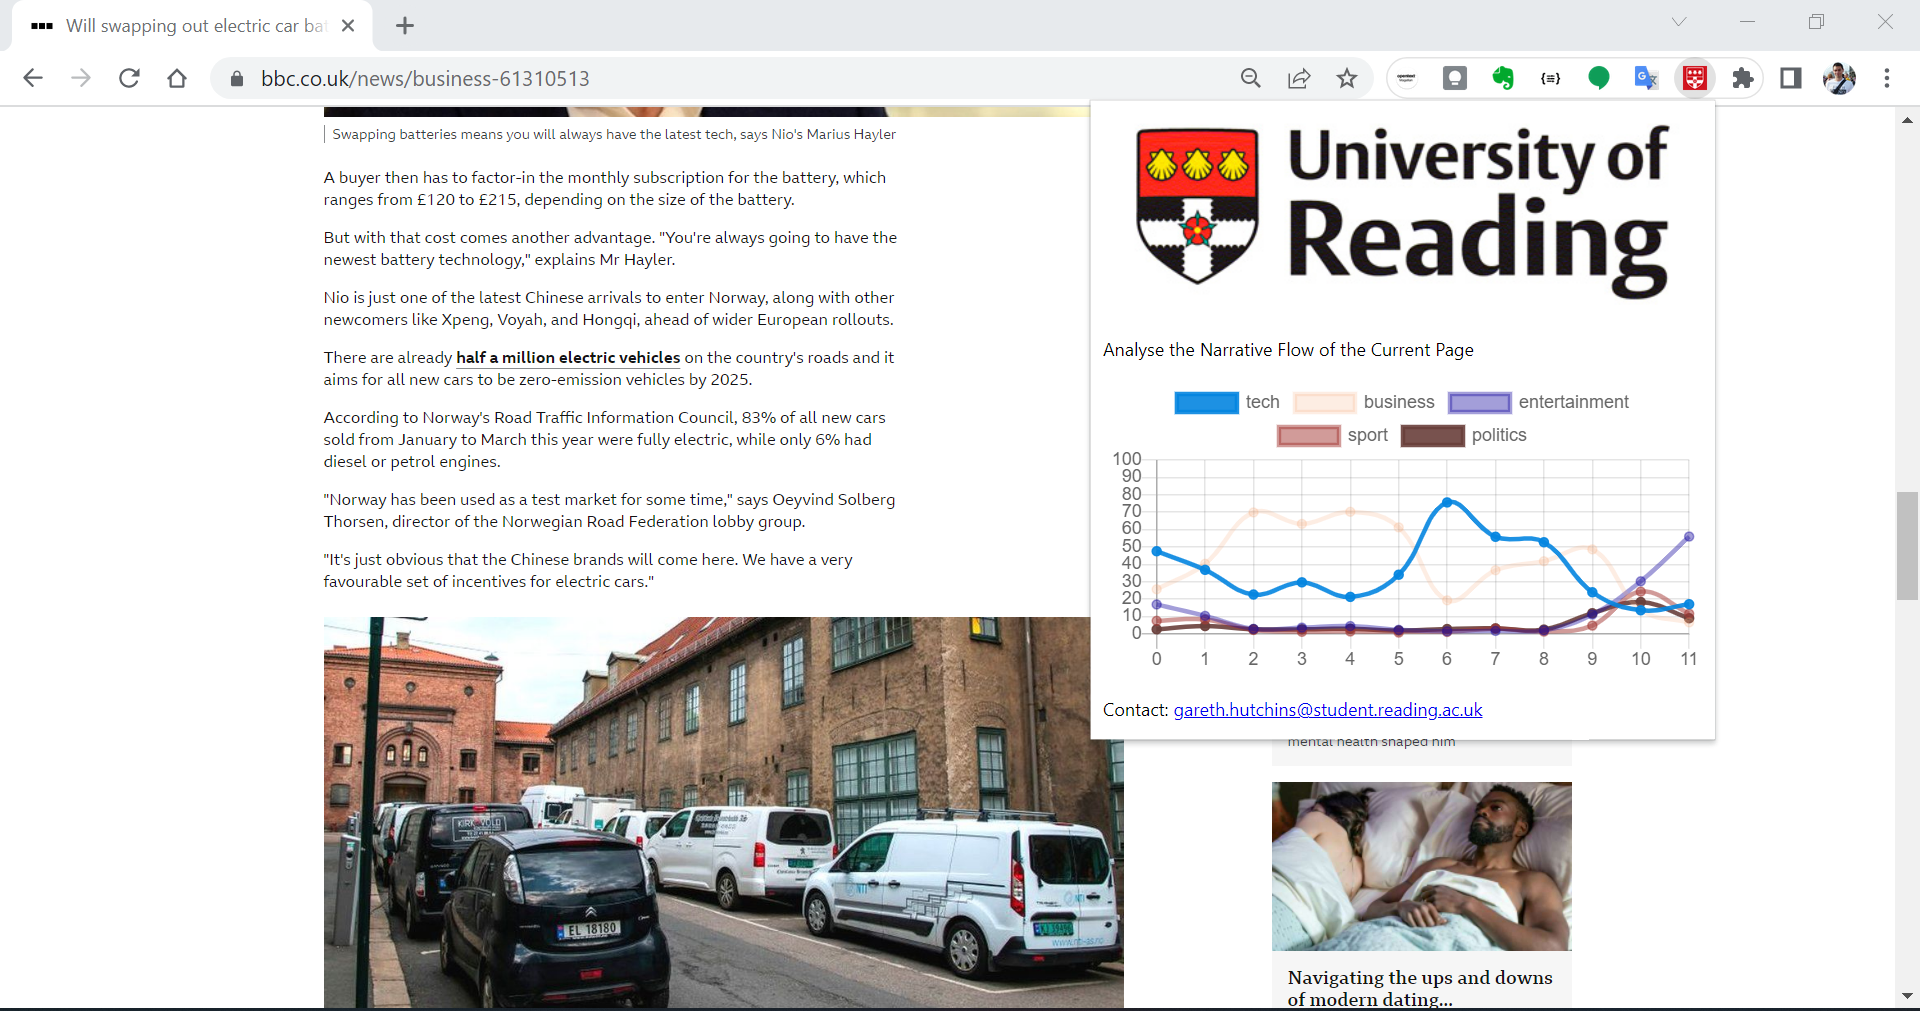
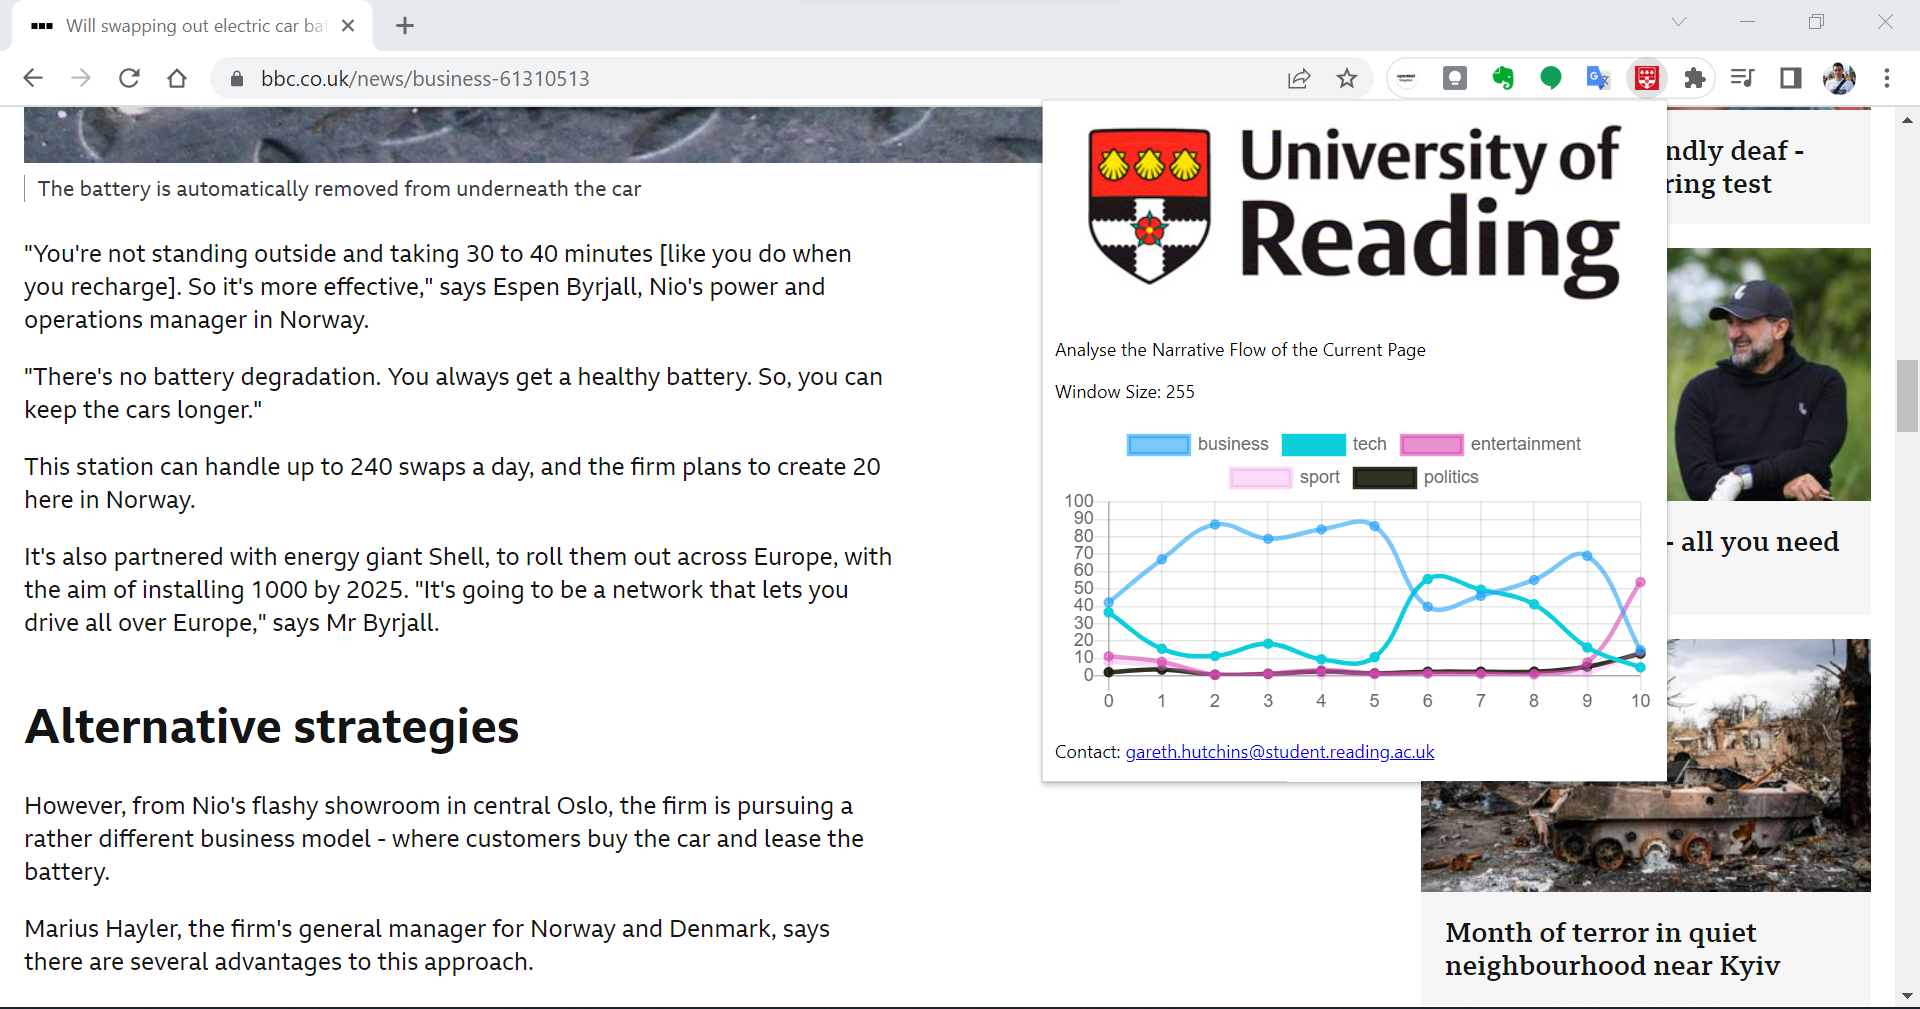
Added Window Size

diff --git a/popup.html b/popup.html
@@ -80,7 +80,7 @@
         <body>
         <img src="logo.png" width="100%">
         <p>Analyse the Narrative Flow of the Current Page</p>
-        
+        <p>Window Size: 255</p>
         <div class="slidecontainer">
         
           <p><font size ="3"><span id="summary"></span></font></p>
